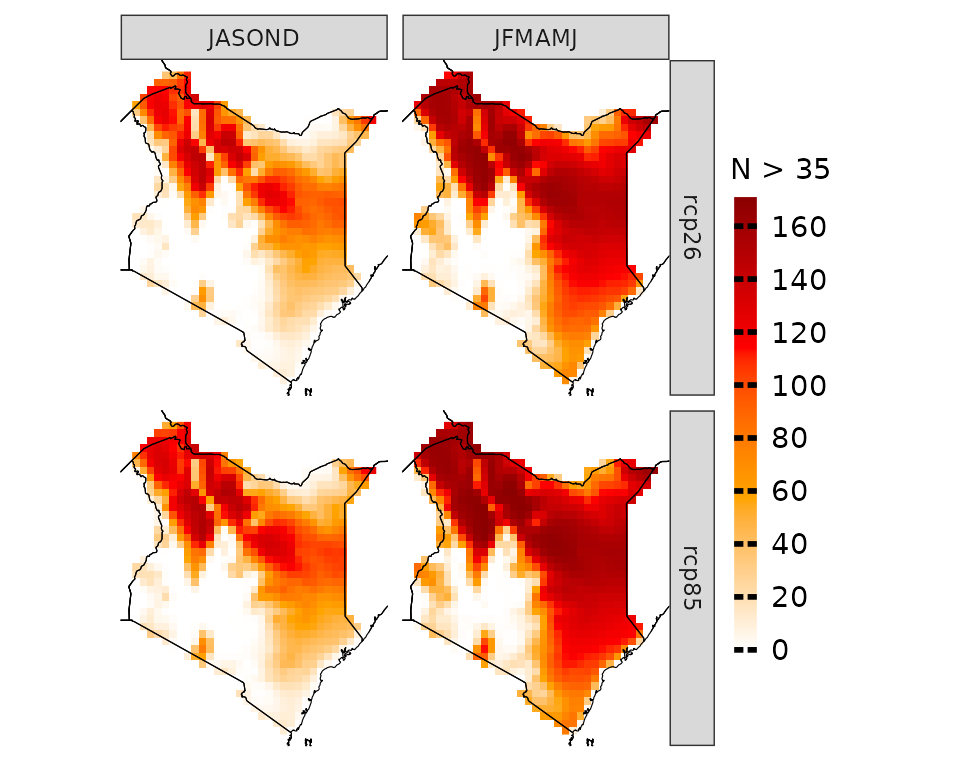
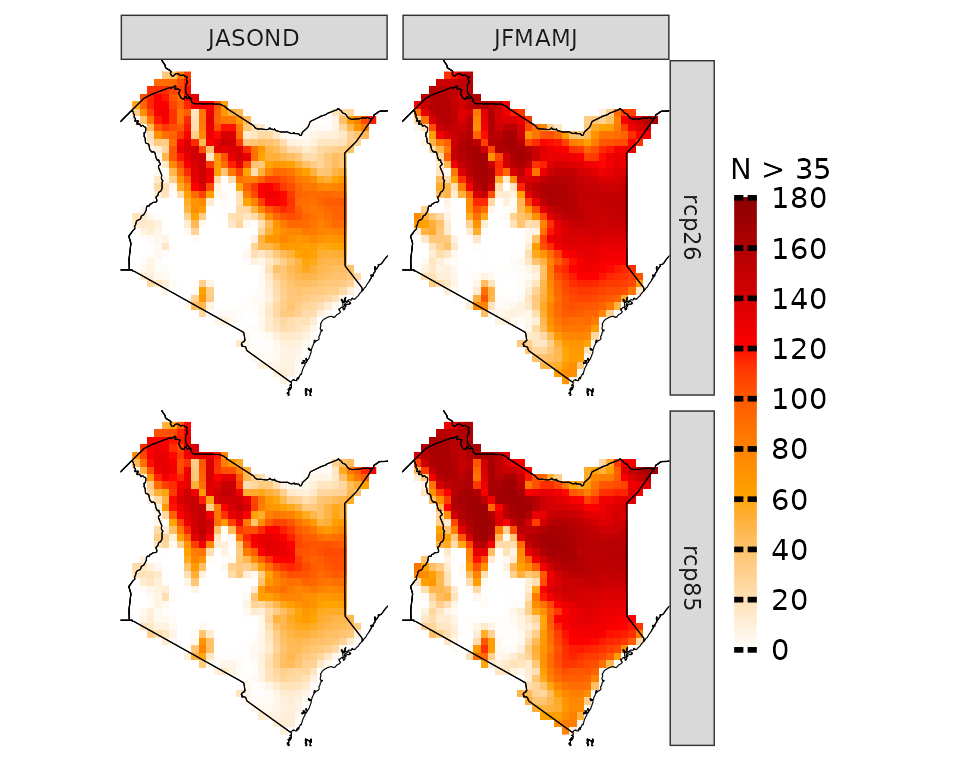
updated website

diff --git a/docs/articles/Introduction.html b/docs/articles/Introduction.html
@@ -49,9 +49,9 @@
     Tutorials
   </a>
   <div class="dropdown-menu" aria-labelledby="dropdown--tutorials">
-    <a class="dropdown-item" href="../articles/Introduction.html">CAVAanalytics- start here</a>
-    <a class="dropdown-item" href="../articles/more_advanced.html">CAVAanalytics- climate indexes</a>
-    <a class="dropdown-item" href="../articles/large_areas.html">CAVAanalytics- computation over large regions</a>
+    <a class="dropdown-item" href="../articles/Introduction.html">Start here</a>
+    <a class="dropdown-item" href="../articles/more_advanced.html">Climate indexes</a>
+    <a class="dropdown-item" href="../articles/large_areas.html">Computation over large regions</a>
   </div>
 </li>
 <li class="nav-item">
@@ -259,7 +259,7 @@ For instance, we may want to determine the number of days with maximum
 temperatures above 35 °C.</p>
 <div class="sourceCode" id="cb15"><pre class="downlit sourceCode r">
 <code class="sourceCode R"><span><span class="va">proj_kenya_35</span> <span class="op">&lt;-</span> <span class="fu"><a href="../reference/projections.html">projections</a></span><span class="op">(</span><span class="va">kenya_exmp</span>, season<span class="op">=</span><span class="fu"><a href="https://rdrr.io/r/base/list.html" class="external-link">list</a></span><span class="op">(</span><span class="fl">1</span><span class="op">:</span><span class="fl">6</span>, <span class="fl">7</span><span class="op">:</span><span class="fl">12</span><span class="op">)</span>, uppert<span class="op">=</span><span class="fl">35</span><span class="op">)</span></span>
-<span><span class="fu"><a href="../reference/plotting.html">plotting</a></span><span class="op">(</span><span class="va">proj_kenya_35</span>, ensemble<span class="op">=</span><span class="cn">T</span>, </span>
+<span><span class="fu"><a href="../reference/plotting.html">plotting</a></span><span class="op">(</span><span class="va">proj_kenya_35</span>, ensemble<span class="op">=</span><span class="cn">T</span>,  legend_range <span class="op">=</span> <span class="fu"><a href="https://rdrr.io/r/base/c.html" class="external-link">c</a></span><span class="op">(</span><span class="fl">0</span>, <span class="fl">180</span><span class="op">)</span>,</span>
 <span>plot_titles <span class="op">=</span> <span class="st">"N &gt; 35"</span>, palette<span class="op">=</span><span class="fu"><a href="https://rdrr.io/r/base/c.html" class="external-link">c</a></span><span class="op">(</span><span class="st">"white"</span>, <span class="st">"orange"</span>, <span class="st">"red"</span>, <span class="st">"darkred"</span><span class="op">)</span><span class="op">)</span></span></code></pre></div>
 <p><img src="Introduction_files/figure-html/unnamed-chunk-15-1.png" width="480" style="display: block; margin: auto;"></p>
 <p>When dealing with model biases, CAVAanalytics offers a
@@ -271,7 +271,7 @@ correct for discrepancies between observed data and model outputs.</p>
 <span><span class="va">proj_kenya_35bc</span> <span class="op">&lt;-</span> <span class="fu"><a href="../reference/projections.html">projections</a></span><span class="op">(</span><span class="va">kenya_exmp</span>, season<span class="op">=</span><span class="fu"><a href="https://rdrr.io/r/base/list.html" class="external-link">list</a></span><span class="op">(</span><span class="fl">1</span><span class="op">:</span><span class="fl">6</span>, <span class="fl">7</span><span class="op">:</span><span class="fl">12</span><span class="op">)</span>, bias.correction <span class="op">=</span> <span class="cn">T</span>, uppert<span class="op">=</span><span class="fl">35</span><span class="op">)</span></span>
 <span><span class="fu"><a href="../reference/plotting.html">plotting</a></span><span class="op">(</span><span class="va">proj_kenya_35bc</span>, ensemble<span class="op">=</span><span class="cn">T</span>,  </span>
 <span>plot_titles <span class="op">=</span> <span class="st">"N &gt; 35 bc"</span>, </span>
-<span>palette<span class="op">=</span><span class="fu"><a href="https://rdrr.io/r/base/c.html" class="external-link">c</a></span><span class="op">(</span><span class="st">"white"</span>, <span class="st">"orange"</span>, <span class="st">"red"</span>, <span class="st">"darkred"</span><span class="op">)</span>, legend_range <span class="op">=</span> <span class="fu"><a href="https://rdrr.io/r/base/c.html" class="external-link">c</a></span><span class="op">(</span><span class="fl">0</span>, <span class="fl">320</span><span class="op">)</span><span class="op">)</span></span></code></pre></div>
+<span>palette<span class="op">=</span><span class="fu"><a href="https://rdrr.io/r/base/c.html" class="external-link">c</a></span><span class="op">(</span><span class="st">"white"</span>, <span class="st">"orange"</span>, <span class="st">"red"</span>, <span class="st">"darkred"</span><span class="op">)</span>, legend_range <span class="op">=</span> <span class="fu"><a href="https://rdrr.io/r/base/c.html" class="external-link">c</a></span><span class="op">(</span><span class="fl">0</span>, <span class="fl">180</span><span class="op">)</span><span class="op">)</span></span></code></pre></div>
 <p><img src="Introduction_files/figure-html/unnamed-chunk-16-1.png" width="480" style="display: block; margin: auto;"></p>
 <p>The results can also be visualized temporally.</p>
 <div class="sourceCode" id="cb17"><pre class="downlit sourceCode r">

diff --git a/docs/404.html b/docs/404.html
@@ -20,7 +20,7 @@
     <a href="https://risk-team.github.io/CAVAanalytics/#main" class="visually-hidden-focusable">Skip to contents</a>
     
 
-    <nav class="navbar fixed-top navbar-dark navbar-expand-lg bg-primary"><div class="container">
+    <nav class="navbar fixed-top navbar-dark navbar-expand-lg bg-primary" data-bs-theme="dark"><div class="container">
     
     <a class="navbar-brand me-2" href="https://risk-team.github.io/CAVAanalytics/index.html">CAVAanalytics</a>
 
@@ -103,7 +103,7 @@ Content not found. Please use links in the navbar.
 
 <div class="pkgdown-footer-right">
   <p></p>
-<p>Site built with <a href="https://pkgdown.r-lib.org/" class="external-link">pkgdown</a> 2.0.7.</p>
+<p>Site built with <a href="https://pkgdown.r-lib.org/" class="external-link">pkgdown</a> 2.0.8.</p>
 </div>
 
     </footer>

diff --git a/docs/authors.html b/docs/authors.html
@@ -6,7 +6,7 @@
     <a href="#main" class="visually-hidden-focusable">Skip to contents</a>
     
 
-    <nav class="navbar fixed-top navbar-dark navbar-expand-lg bg-primary"><div class="container">
+    <nav class="navbar fixed-top navbar-dark navbar-expand-lg bg-primary" data-bs-theme="dark"><div class="container">
     
     <a class="navbar-brand me-2" href="index.html">CAVAanalytics</a>
 
@@ -125,7 +125,7 @@ R package version 3.0.0, <a href="https://risk-team.github.io/CAVAanalytics/">ht
 </div>
 
 <div class="pkgdown-footer-right">
-  <p></p><p>Site built with <a href="https://pkgdown.r-lib.org/" class="external-link">pkgdown</a> 2.0.7.</p>
+  <p></p><p>Site built with <a href="https://pkgdown.r-lib.org/" class="external-link">pkgdown</a> 2.0.8.</p>
 </div>
 
     </footer></div>

diff --git a/docs/LICENSE-text.html b/docs/LICENSE-text.html
@@ -6,7 +6,7 @@
     <a href="#main" class="visually-hidden-focusable">Skip to contents</a>
     
 
-    <nav class="navbar fixed-top navbar-dark navbar-expand-lg bg-primary"><div class="container">
+    <nav class="navbar fixed-top navbar-dark navbar-expand-lg bg-primary" data-bs-theme="dark"><div class="container">
     
     <a class="navbar-brand me-2" href="index.html">CAVAanalytics</a>
 
@@ -756,7 +756,7 @@ Public License instead of this License.  But first, please read
 </div>
 
 <div class="pkgdown-footer-right">
-  <p></p><p>Site built with <a href="https://pkgdown.r-lib.org/" class="external-link">pkgdown</a> 2.0.7.</p>
+  <p></p><p>Site built with <a href="https://pkgdown.r-lib.org/" class="external-link">pkgdown</a> 2.0.8.</p>
 </div>
 
     </footer></div>

diff --git a/docs/index.html b/docs/index.html
@@ -22,7 +22,7 @@
     <a href="#main" class="visually-hidden-focusable">Skip to contents</a>
     
 
-    <nav class="navbar fixed-top navbar-dark navbar-expand-lg bg-primary"><div class="container">
+    <nav class="navbar fixed-top navbar-dark navbar-expand-lg bg-primary" data-bs-theme="dark"><div class="container">
     
     <a class="navbar-brand me-2" href="index.html">CAVAanalytics</a>
 
@@ -325,7 +325,7 @@ filtered_data = data[data['activity'].str.contains("FAO")]
 
 <div class="pkgdown-footer-right">
   <p></p>
-<p>Site built with <a href="https://pkgdown.r-lib.org/" class="external-link">pkgdown</a> 2.0.7.</p>
+<p>Site built with <a href="https://pkgdown.r-lib.org/" class="external-link">pkgdown</a> 2.0.8.</p>
 </div>
 
     </footer>

diff --git a/docs/reference/C4R_to_CAVA.html b/docs/reference/C4R_to_CAVA.html
@@ -32,9 +32,9 @@
     Tutorials
   </a>
   <div class="dropdown-menu" aria-labelledby="dropdown--tutorials">
-    <a class="dropdown-item" href="../articles/Introduction.html">CAVAanalytics- start here</a>
-    <a class="dropdown-item" href="../articles/more_advanced.html">CAVAanalytics- climate indexes</a>
-    <a class="dropdown-item" href="../articles/large_areas.html">CAVAanalytics- computation over large regions</a>
+    <a class="dropdown-item" href="../articles/Introduction.html">Start here</a>
+    <a class="dropdown-item" href="../articles/more_advanced.html">Climate indexes</a>
+    <a class="dropdown-item" href="../articles/large_areas.html">Computation over large regions</a>
   </div>
 </li>
 <li class="active nav-item">

diff --git a/docs/reference/IPCC_palette.html b/docs/reference/IPCC_palette.html
@@ -32,9 +32,9 @@
     Tutorials
   </a>
   <div class="dropdown-menu" aria-labelledby="dropdown--tutorials">
-    <a class="dropdown-item" href="../articles/Introduction.html">CAVAanalytics- start here</a>
-    <a class="dropdown-item" href="../articles/more_advanced.html">CAVAanalytics- climate indexes</a>
-    <a class="dropdown-item" href="../articles/large_areas.html">CAVAanalytics- computation over large regions</a>
+    <a class="dropdown-item" href="../articles/Introduction.html">Start here</a>
+    <a class="dropdown-item" href="../articles/more_advanced.html">Climate indexes</a>
+    <a class="dropdown-item" href="../articles/large_areas.html">Computation over large regions</a>
   </div>
 </li>
 <li class="active nav-item">

diff --git a/docs/reference/climate_change_signal.html b/docs/reference/climate_change_signal.html
@@ -32,9 +32,9 @@
     Tutorials
   </a>
   <div class="dropdown-menu" aria-labelledby="dropdown--tutorials">
-    <a class="dropdown-item" href="../articles/Introduction.html">CAVAanalytics- start here</a>
-    <a class="dropdown-item" href="../articles/more_advanced.html">CAVAanalytics- climate indexes</a>
-    <a class="dropdown-item" href="../articles/large_areas.html">CAVAanalytics- computation over large regions</a>
+    <a class="dropdown-item" href="../articles/Introduction.html">Start here</a>
+    <a class="dropdown-item" href="../articles/more_advanced.html">Climate indexes</a>
+    <a class="dropdown-item" href="../articles/large_areas.html">Computation over large regions</a>
   </div>
 </li>
 <li class="active nav-item">

diff --git a/docs/reference/extract_raster.html b/docs/reference/extract_raster.html
@@ -32,9 +32,9 @@
     Tutorials
   </a>
   <div class="dropdown-menu" aria-labelledby="dropdown--tutorials">
-    <a class="dropdown-item" href="../articles/Introduction.html">CAVAanalytics- start here</a>
-    <a class="dropdown-item" href="../articles/more_advanced.html">CAVAanalytics- climate indexes</a>
-    <a class="dropdown-item" href="../articles/large_areas.html">CAVAanalytics- computation over large regions</a>
+    <a class="dropdown-item" href="../articles/Introduction.html">Start here</a>
+    <a class="dropdown-item" href="../articles/more_advanced.html">Climate indexes</a>
+    <a class="dropdown-item" href="../articles/large_areas.html">Computation over large regions</a>
   </div>
 </li>
 <li class="active nav-item">

diff --git a/docs/reference/index.html b/docs/reference/index.html
@@ -32,9 +32,9 @@
     Tutorials
   </a>
   <div class="dropdown-menu" aria-labelledby="dropdown--tutorials">
-    <a class="dropdown-item" href="../articles/Introduction.html">CAVAanalytics- start here</a>
-    <a class="dropdown-item" href="../articles/more_advanced.html">CAVAanalytics- climate indexes</a>
-    <a class="dropdown-item" href="../articles/large_areas.html">CAVAanalytics- computation over large regions</a>
+    <a class="dropdown-item" href="../articles/Introduction.html">Start here</a>
+    <a class="dropdown-item" href="../articles/more_advanced.html">Climate indexes</a>
+    <a class="dropdown-item" href="../articles/large_areas.html">Computation over large regions</a>
   </div>
 </li>
 <li class="active nav-item">

diff --git a/docs/reference/load_data.html b/docs/reference/load_data.html
@@ -32,9 +32,9 @@
     Tutorials
   </a>
   <div class="dropdown-menu" aria-labelledby="dropdown--tutorials">
-    <a class="dropdown-item" href="../articles/Introduction.html">CAVAanalytics- start here</a>
-    <a class="dropdown-item" href="../articles/more_advanced.html">CAVAanalytics- climate indexes</a>
-    <a class="dropdown-item" href="../articles/large_areas.html">CAVAanalytics- computation over large regions</a>
+    <a class="dropdown-item" href="../articles/Introduction.html">Start here</a>
+    <a class="dropdown-item" href="../articles/more_advanced.html">Climate indexes</a>
+    <a class="dropdown-item" href="../articles/large_areas.html">Computation over large regions</a>
   </div>
 </li>
 <li class="active nav-item">

diff --git a/docs/reference/load_data_and_climate_change_signal.html b/docs/reference/load_data_and_climate_change_signal.html
@@ -32,9 +32,9 @@
     Tutorials
   </a>
   <div class="dropdown-menu" aria-labelledby="dropdown--tutorials">
-    <a class="dropdown-item" href="../articles/Introduction.html">CAVAanalytics- start here</a>
-    <a class="dropdown-item" href="../articles/more_advanced.html">CAVAanalytics- climate indexes</a>
-    <a class="dropdown-item" href="../articles/large_areas.html">CAVAanalytics- computation over large regions</a>
+    <a class="dropdown-item" href="../articles/Introduction.html">Start here</a>
+    <a class="dropdown-item" href="../articles/more_advanced.html">Climate indexes</a>
+    <a class="dropdown-item" href="../articles/large_areas.html">Computation over large regions</a>
   </div>
 </li>
 <li class="active nav-item">
